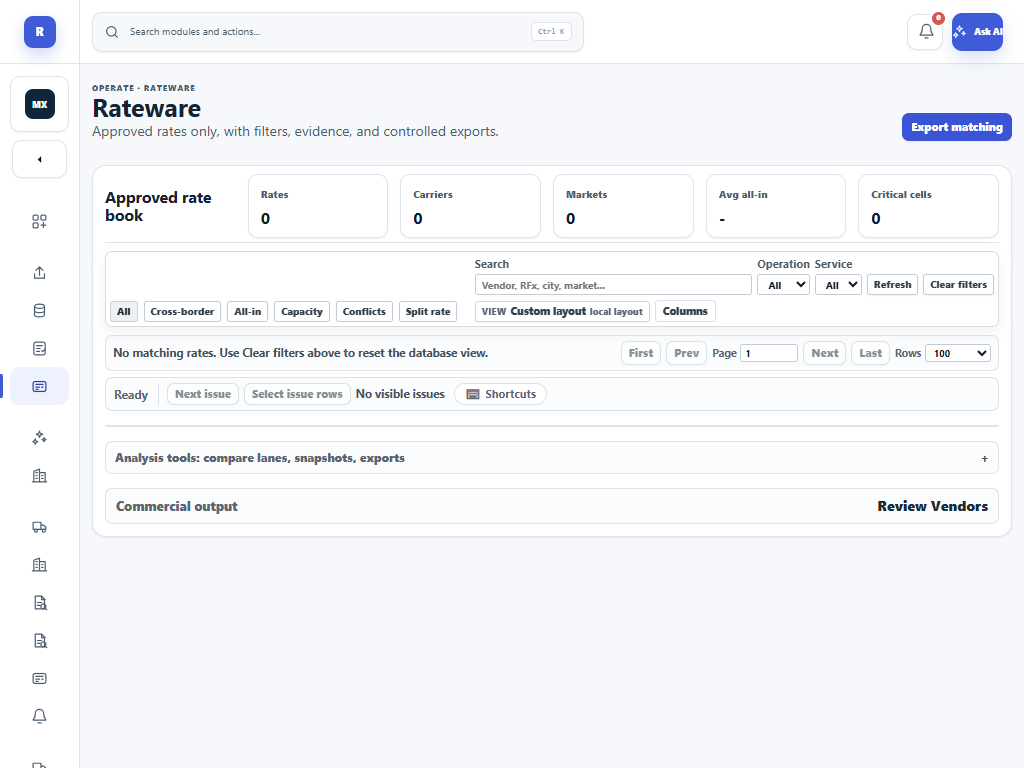
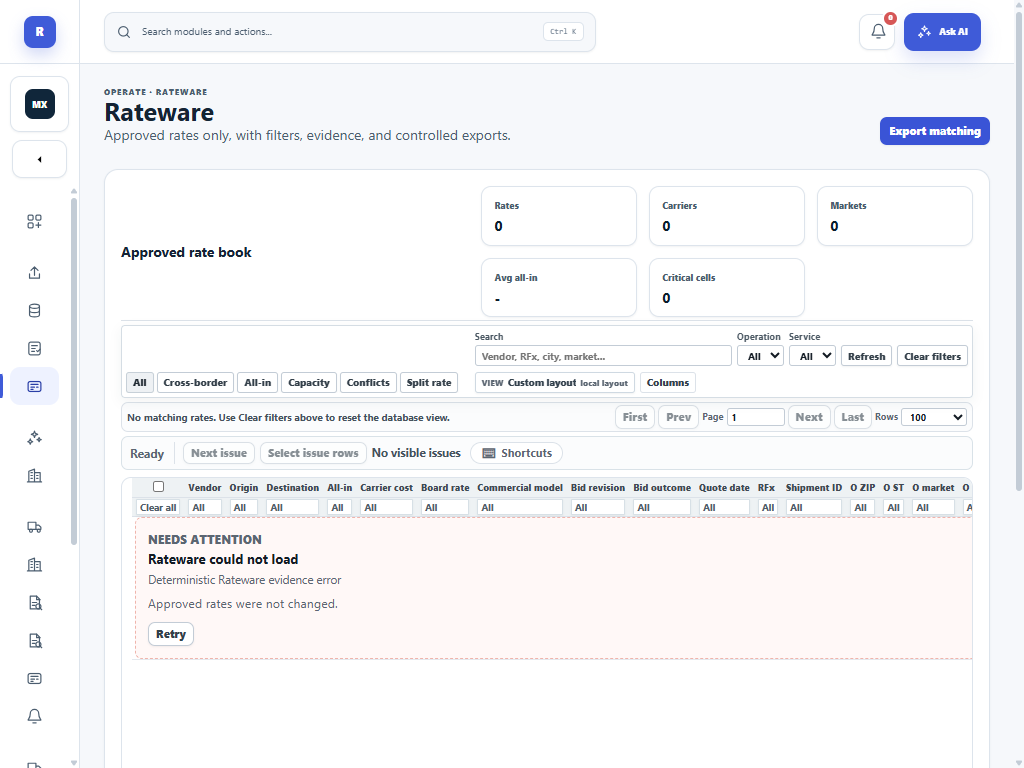
fix: require stable Operate evidence layout

diff --git a/docs/release/evidence/2026-08-21-p2-s2-operate.md b/docs/release/evidence/2026-08-21-p2-s2-operate.md
@@ -38,6 +38,7 @@
 - Upload Center's non-happy state is a real empty-submit validation on the actual page; the screenshot is scrolled to its visible error message and the manifest records the trigger.
 - Actual-route review exposed and corrected three defects hidden by the synthetic fixture: wide tables escaping their panel, Upload Center failing to stack on mobile, and its desktop header/queue falling into a tall implicit grid row.
 - The 24 accepted PNGs were captured with CDP `Page.captureScreenshot` at exactly `1440x900`, `1024x768`, and `390x844`; cropped app-surface captures were rejected and removed.
+- Every capture waited for at least three stable layout samples and records a content-width ratio of at least `0.65`; a transient Rateware tablet capture that collapsed into roughly one fifth of the viewport was rejected and regenerated.
 
 ## Verification
 
